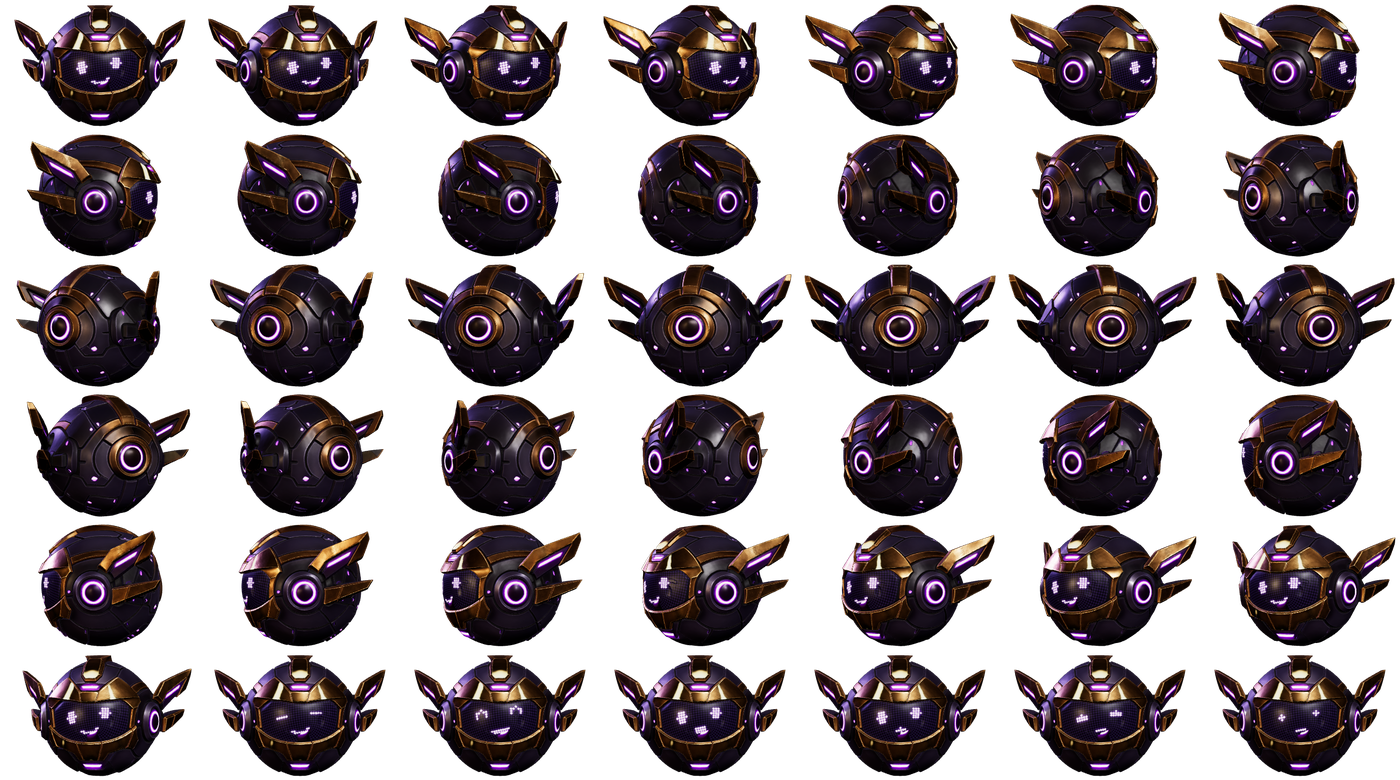
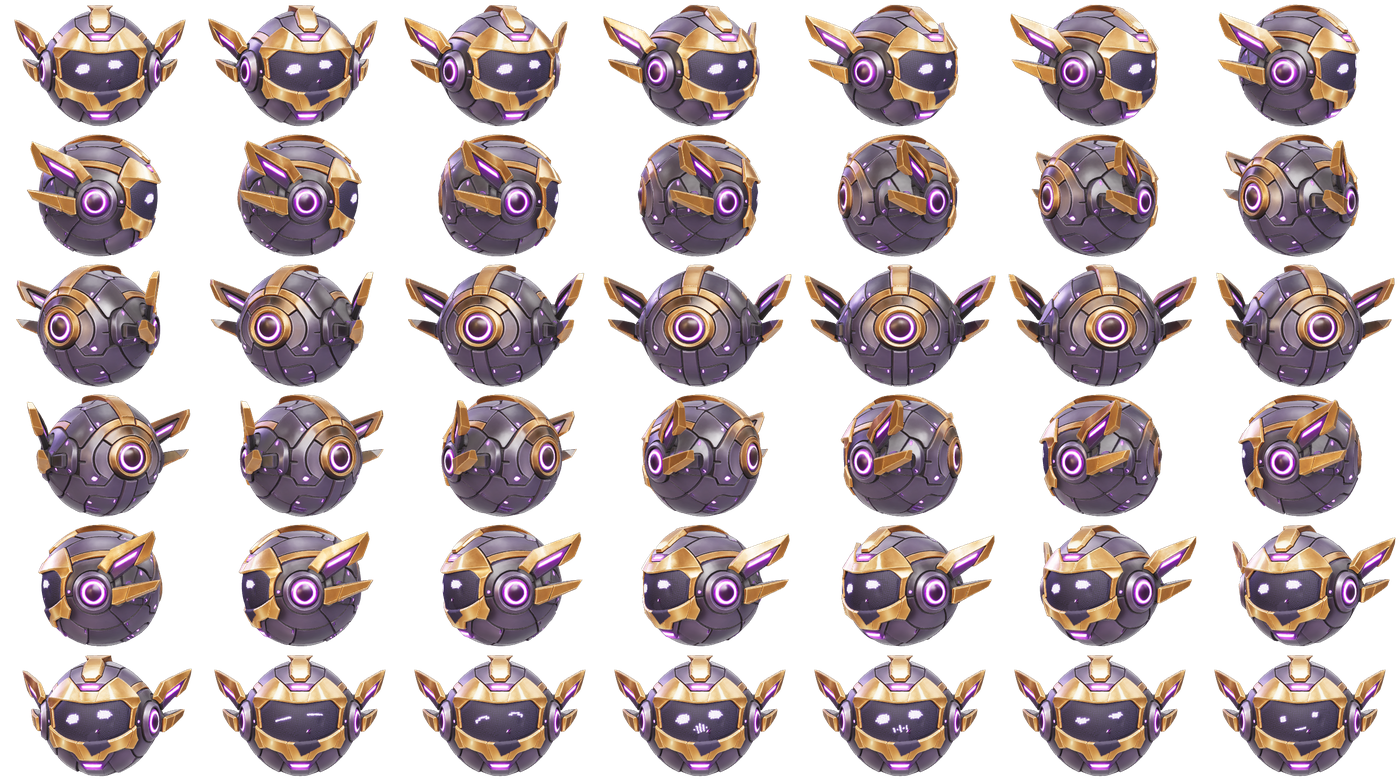
Companion 0.18.2: hellere 3D-Figur, neue LED-Gesichter, Menü im Sprechblasen-Stil
- Rendering mit Umgebungslicht und mehr Belichtung; Visier matt
- LED-Gesichter im Visier-Look (Balken-Augen, Equalizer beim Sprechen)
- Eingeformtes altes Lächeln im Visier geglättet (über UV-Nähte hinweg)
- TecMonMenu-Renderer für Figur- und Tray-Menü

Claude-Session: https://claude.ai/code/session_01VjzNBoQPioG3zk3xNWyA7y

diff --git a/scripts/figure-3d/index.html b/scripts/figure-3d/index.html
@@ -3,25 +3,44 @@
 <script type="module">
 import * as THREE from 'three';
 import {GLTFLoader} from 'three/addons/loaders/GLTFLoader.js';
+import {RoomEnvironment} from 'three/addons/environments/RoomEnvironment.js';
 const S=Number(new URLSearchParams(location.search).get('s')||512);
 const renderer=new THREE.WebGLRenderer({antialias:true,alpha:true,preserveDrawingBuffer:true,premultipliedAlpha:false});
-renderer.setSize(S,S);renderer.setClearColor(0x000000,0);renderer.outputColorSpace=THREE.SRGBColorSpace;renderer.toneMapping=THREE.ACESFilmicToneMapping;renderer.toneMappingExposure=1.1;
+renderer.setSize(S,S);renderer.setClearColor(0x000000,0);renderer.outputColorSpace=THREE.SRGBColorSpace;renderer.toneMapping=THREE.ACESFilmicToneMapping;renderer.toneMappingExposure=1.5;
 document.body.appendChild(renderer.domElement);
 const scene=new THREE.Scene();
+// Umgebungslicht für Metall und Gold, sonst wirkt die Figur auf dem Desktop zu dunkel.
+scene.environment=new THREE.PMREMGenerator(renderer).fromScene(new RoomEnvironment(),0.04).texture;scene.environmentIntensity=0.85;
 const cam=new THREE.PerspectiveCamera(22,1,0.1,50);
-scene.add(new THREE.HemisphereLight(0xd8cbff,0x1a1426,1.4));
-const key=new THREE.DirectionalLight(0xffffff,2.6);key.position.set(2,3,4);scene.add(key);
+scene.add(new THREE.HemisphereLight(0xe6dcff,0x3a3050,2.2));
+const key=new THREE.DirectionalLight(0xffffff,3.6);key.position.set(2,3,4);scene.add(key);
 const rim=new THREE.DirectionalLight(0xa78bfa,2.2);rim.position.set(-3,2,-3);scene.add(rim);
-const fill=new THREE.DirectionalLight(0xffe2a8,0.8);fill.position.set(-3,0.5,3);scene.add(fill);
+const fill=new THREE.DirectionalLight(0xffe2a8,1.6);fill.position.set(-3,0.5,3);scene.add(fill);
 const tl=new THREE.TextureLoader();
 const tex=(n,srgb)=>new Promise(r=>tl.load(n+'.png',t=>{t.flipY=false;if(srgb)t.colorSpace=THREE.SRGBColorSpace;t.anisotropy=8;r(t)}));
 window.ready=(async()=>{
-  const [d,e,n,m,ro]=await Promise.all([tex('diffuse',1),tex('emissive',1),tex('normal_flat'),tex('metallic'),tex('roughness')]);
+  const [d,e,n,m,ro]=await Promise.all([tex('diffuse',1),tex('emissive',1),tex('normal_flat'),tex('metallic_visor'),tex('roughness_visor')]);
   window.tex0=d;window.em0=e;
   const g=await new GLTFLoader().loadAsync('base.glb');
-  const mat=new THREE.MeshStandardMaterial({map:d,emissiveMap:e,emissive:0xffffff,emissiveIntensity:1.4,normalMap:n,metalnessMap:m,roughnessMap:ro,metalness:1,roughness:1,side:THREE.DoubleSide});
+  const mat=new THREE.MeshStandardMaterial({map:d,emissiveMap:e,emissive:0xffffff,emissiveIntensity:1.8,normalMap:n,metalnessMap:m,roughnessMap:ro,metalness:1,roughness:1,side:THREE.DoubleSide});
   window.mat=mat;
   g.scene.traverse(o=>{if(o.isMesh)o.material=mat});
+  /* Das Modell hat Augen und Mund als Relief im Visier. Das Visier glätten, damit nur das LED-Gesicht zu sehen ist. */
+  const mask=await new Promise(r=>{const i=new Image();i.onload=()=>{const c=document.createElement('canvas');c.width=i.width;c.height=i.height;const x=c.getContext('2d');x.drawImage(i,0,0);r({w:i.width,h:i.height,d:x.getImageData(0,0,i.width,i.height).data})};i.src='visor_mask.png'});
+  g.scene.traverse(o=>{if(!o.isMesh)return;const geo=o.geometry;
+    const pos=geo.attributes.position,uv=geo.attributes.uv,n=pos.count,p=pos.array;
+    const idx=geo.index?geo.index.array:Uint32Array.from({length:n},(_,i)=>i);
+    /* Gleiche Positionen über UV-Nähte hinweg zusammenfassen, damit auch Nahtkanten mitgeglättet werden. */
+    const key=new Map(),canon=new Int32Array(n);let m=0;
+    for(let i=0;i<n;i++){const k=Math.round(p[i*3]*1e5)+','+Math.round(p[i*3+1]*1e5)+','+Math.round(p[i*3+2]*1e5);let c=key.get(k);if(c===undefined){c=m++;key.set(k,c);}canon[i]=c;}
+    const cp=new Float64Array(m*3),weight=new Float32Array(m);
+    for(let i=0;i<n;i++){const c=canon[i];cp[c*3]=p[i*3];cp[c*3+1]=p[i*3+1];cp[c*3+2]=p[i*3+2];
+      const u=Math.min(mask.w-1,Math.max(0,Math.round(uv.getX(i)*mask.w))),v=Math.min(mask.h-1,Math.max(0,Math.round(uv.getY(i)*mask.h)));weight[c]=Math.max(weight[c],mask.d[(v*mask.w+u)*4]/255);}
+    const nb=Array.from({length:m},()=>[]);
+    for(let t=0;t<idx.length;t+=3){const a=canon[idx[t]],b=canon[idx[t+1]],c=canon[idx[t+2]];if(weight[a]+weight[b]+weight[c]===0)continue;nb[a].push(b,c);nb[b].push(a,c);nb[c].push(a,b);}
+    for(let it=0;it<60;it++){const q=cp.slice();for(let i=0;i<m;i++){if(!weight[i]||!nb[i].length)continue;let x=0,y=0,z=0;for(const j of nb[i]){x+=q[j*3];y+=q[j*3+1];z+=q[j*3+2];}const k=nb[i].length,w=weight[i]*0.6;cp[i*3]+=(x/k-q[i*3])*w;cp[i*3+1]+=(y/k-q[i*3+1])*w;cp[i*3+2]+=(z/k-q[i*3+2])*w;}}
+    for(let i=0;i<n;i++){const c=canon[i];p[i*3]=cp[c*3];p[i*3+1]=cp[c*3+1];p[i*3+2]=cp[c*3+2];}
+    pos.needsUpdate=true;geo.computeVertexNormals();});
   const pivot=new THREE.Group();pivot.add(g.scene);g.scene.position.set(0,-0.635,0);scene.add(pivot);window.pivot=pivot;
   cam.position.set(0,0.1,5.6);cam.lookAt(0,0,0);
   return true;

diff --git a/tools/cs2-companion/public/index.html b/tools/cs2-companion/public/index.html
@@ -1,7 +1,7 @@
 <!doctype html>
 <html lang="de"><head><meta charset="utf-8"><meta name="viewport" content="width=device-width,initial-scale=1"><meta name="tecmon-token" content="__TOKEN__"><title>TecMon · CS2 Companion</title><link rel="icon" href="/favicon.ico"><link rel="stylesheet" href="/style.css"><script src="/app.js" defer></script></head>
 <body class="holo"><aside><a class="brand" href="/"><img src="/logo.webp" alt="TecMon"><span>TECMON<small>LOCAL COMPANION</small></span></a><div class="local"><i></i> Läuft auf deinem PC<small>Demos und Videos bleiben lokal.</small></div><a href="https://tecmon.online" target="_blank" rel="noreferrer">↗ TecMon öffnen</a><a href="#" id="folder-open-side">↗ Videos-Ordner öffnen</a></aside>
-<main><header><span class="eyebrow">DEIN MATCH. DEINE MOMENTE.</span><div class="header-actions"><span class="version">WINDOWS · PREVIEW 0.18.1</span><button id="advanced-toggle" type="button" class="subtle" aria-expanded="false" aria-controls="advanced-panel">Erweitert</button></div></header>
+<main><header><span class="eyebrow">DEIN MATCH. DEINE MOMENTE.</span><div class="header-actions"><span class="version">WINDOWS · PREVIEW 0.18.2</span><button id="advanced-toggle" type="button" class="subtle" aria-expanded="false" aria-controls="advanced-panel">Erweitert</button></div></header>
 <div id="update-banner" class="update-banner" role="status" hidden><span><b id="update-banner-title">Update verfügbar</b><small id="update-banner-note">Installiert nur Companion-Dateien und startet neu. Demos, Videos und Einstellungen bleiben erhalten.</small></span><button id="update-banner-install" type="button">Jetzt installieren</button></div>
 <section class="minimal-hero" aria-labelledby="minimal-title"><img src="/desktop-avatar.png" alt="" width="88" height="88"><div><span class="eyebrow gold">// DEIN LOKALER COMPANION</span><h1 id="minimal-title">Bereit für deine Highlights.</h1><p>Wähle auf TecMon deine Matches und Spieler. Dieser PC lädt die Demos und erstellt deine Videos automatisch.</p><a class="button website-open" href="https://tecmon.online" target="_blank" rel="noreferrer">TecMon im Browser öffnen ↗</a></div></section>
 <section class="card connection-summary" aria-labelledby="connection-heading"><div class="status-orb" aria-hidden="true"></div><div><span class="eyebrow">BROWSER-VERBINDUNG</span><h2 id="connection-heading">Verbindung wird geprüft …</h2><p id="connection-note">Companion geöffnet lassen. Nach dem Verbinden steuerst du Download und Aufnahme auf der Webseite.</p><div id="bridge-connections" aria-live="polite"></div></div></section>

diff --git a/tools/cs2-companion/windows/TecMon.cs b/tools/cs2-companion/windows/TecMon.cs
@@ -140,12 +140,12 @@ static class TecMon {
     if(launch) {Root=target; Application.Run(new SplashWindow());}
   }
   public static void WriteUpdateResult(string target,string status,string message) {
-    try {File.WriteAllText(Path.Combine(target,"update-result.json"),Json.Serialize(new { status=status,message=message,version="0.18.1",time=DateTime.UtcNow.ToString("o") }),new UTF8Encoding(false));} catch {}
+    try {File.WriteAllText(Path.Combine(target,"update-result.json"),Json.Serialize(new { status=status,message=message,version="0.18.2",time=DateTime.UtcNow.ToString("o") }),new UTF8Encoding(false));} catch {}
   }
   public static void UpdateRegistration(string target) {
     using(var key=Registry.CurrentUser.OpenSubKey(@"Software\Microsoft\Windows\CurrentVersion\Uninstall\TecMonCompanion",true)) {
       if(key==null || !String.Equals(Convert.ToString(key.GetValue("InstallLocation","")),target,StringComparison.OrdinalIgnoreCase))return;
-      key.SetValue("DisplayVersion","0.18.1");key.SetValue("DisplayIcon",Path.Combine(target,"TecMon Companion.exe"));
+      key.SetValue("DisplayVersion","0.18.2");key.SetValue("DisplayIcon",Path.Combine(target,"TecMon Companion.exe"));
     }
     foreach(var file in new[]{Path.Combine(Environment.GetFolderPath(Environment.SpecialFolder.DesktopDirectory),"TecMon Companion.lnk"),Path.Combine(Environment.GetFolderPath(Environment.SpecialFolder.Programs),"TecMon","TecMon Companion.lnk")})
       if(File.Exists(file))Shortcut(file,Path.Combine(target,"TecMon Companion.exe"));
@@ -160,7 +160,7 @@ static class TecMon {
     var programs = Path.Combine(Environment.GetFolderPath(Environment.SpecialFolder.Programs), "TecMon"); Directory.CreateDirectory(programs);
     Shortcut(Path.Combine(programs, "TecMon Companion.lnk"), app);
     using(var key = Registry.CurrentUser.CreateSubKey(@"Software\Microsoft\Windows\CurrentVersion\Uninstall\TecMonCompanion")) {
-      key.SetValue("DisplayName", "TecMon Companion"); key.SetValue("DisplayVersion", "0.18.1"); key.SetValue("Publisher", "TecMon");
+      key.SetValue("DisplayName", "TecMon Companion"); key.SetValue("DisplayVersion", "0.18.2"); key.SetValue("Publisher", "TecMon");
       key.SetValue("InstallLocation", target); key.SetValue("DisplayIcon", app); key.SetValue("UninstallString", Q(app) + " --uninstall"); key.SetValue("NoModify", 1); key.SetValue("NoRepair", 1);
     }
   }
@@ -268,7 +268,7 @@ static class TecMon {
       if(args.Length > 0 && args[0] == "--apply-update-cli") {
         try {ApplyUpdate(args[1],"",false);return 0;} catch(Exception error) {WriteUpdateResult(args[1],"error",error.Message);Console.Error.WriteLine(error.Message);return 1;}
       }
-      if(args.Length>1 && args[0]=="--desktop-preview-3d") {using(var pet=new DesktopPet(true)){if(!pet.HasModel)throw new Exception("3D-Figur fehlt");int n=0;foreach(var spec in new[]{"0,-1","30,-1","90,-1","150,-1","180,-1","0,36","0,37","0,38","0,39","0,41"}){var parts=spec.Split(',');using(var frame=pet.Preview(double.Parse(parts[0]),int.Parse(parts[1])))frame.Save(Path.Combine(args[1],"pet-"+(n++)+".png"),System.Drawing.Imaging.ImageFormat.Png);}}using(var bubble=new TipBubble())using(var image=bubble.Preview("Kauf-Check","Volle Ausrüstung möglich: Rifle, Kevlar + Helm und zwei Granaten."))image.Save(Path.Combine(args[1],"bubble.png"),System.Drawing.Imaging.ImageFormat.Png);return 0;}
+      if(args.Length>1 && args[0]=="--desktop-preview-3d") {using(var pet=new DesktopPet(true)){if(!pet.HasModel)throw new Exception("3D-Figur fehlt");int n=0;foreach(var spec in new[]{"0,-1","30,-1","90,-1","150,-1","180,-1","0,36","0,37","0,38","0,39","0,41"}){var parts=spec.Split(',');using(var frame=pet.Preview(double.Parse(parts[0]),int.Parse(parts[1])))frame.Save(Path.Combine(args[1],"pet-"+(n++)+".png"),System.Drawing.Imaging.ImageFormat.Png);}}using(var bubble=new TipBubble())using(var image=bubble.Preview("Kauf-Check","Volle Ausrüstung möglich: Rifle, Kevlar + Helm und zwei Granaten."))image.Save(Path.Combine(args[1],"bubble.png"),System.Drawing.Imaging.ImageFormat.Png);using(var pet=new DesktopPet(true)){var menu=pet.ContextMenuStrip;menu.Show(new Point(0,0));if(menu.Items.Count>2)((ToolStripMenuItem)menu.Items[2]).Select();using(var shot=new Bitmap(menu.Width,menu.Height)){menu.DrawToBitmap(shot,new Rectangle(0,0,menu.Width,menu.Height));shot.Save(Path.Combine(args[1],"menu.png"),System.Drawing.Imaging.ImageFormat.Png);}menu.Close();}return 0;}
       if(args.Length>1 && args[0]=="--desktop-preview") {using(var pet=new DesktopPet(true))using(var frame=pet.Frame())frame.Save(args[1],System.Drawing.Imaging.ImageFormat.Png);return 0;}
       if(args.Length>0 && args[0]=="--desktop-self-test") {var result=DesktopPet.Fit(new Point(5000,-5000),new Rectangle(-1920,0,1920,1080),new Size(144,164));if(result.X!=-144||result.Y!=0)throw new Exception("Desktop bounds failed");return 0;}
       if(args.Length > 1 && args[0] == "--splash-preview") {using(var form=new SplashWindow(true)) using(var bitmap=new Bitmap(form.ClientSize.Width,form.ClientSize.Height)) {using(var graphics=Graphics.FromImage(bitmap))graphics.Clear(form.BackColor);foreach(Control control in form.Controls)control.DrawToBitmap(bitmap,control.Bounds);bitmap.Save(args[1],System.Drawing.Imaging.ImageFormat.Png);}return 0;}
@@ -288,7 +288,7 @@ static class TecMon {
         string target=Path.Combine(Environment.GetFolderPath(Environment.SpecialFolder.LocalApplicationData),@"Programs\TecMon Companion");
         using(var key=Registry.CurrentUser.OpenSubKey(@"Software\Microsoft\Windows\CurrentVersion\Uninstall\TecMonCompanion")) if(key!=null) target=Convert.ToString(key.GetValue("InstallLocation",target));
         if(!File.Exists(Path.Combine(target,"installation.json"))) using(var dialog=new FolderBrowserDialog { Description="Bestehenden TecMon-Programmordner wählen",SelectedPath=target }) {if(dialog.ShowDialog()!=DialogResult.OK)return 0;target=dialog.SelectedPath;}
-        if(MessageBox.Show("TecMon Companion auf 0.18.1 aktualisieren?\n\nVorher Companion und CS Demo Manager schließen. Nur Programmdateien werden ersetzt. PostgreSQL, Tools, Demos, Videos und Passwörter bleiben erhalten.","TecMon Update",MessageBoxButtons.YesNo,MessageBoxIcon.Question)==DialogResult.Yes) ApplyUpdate(target,"");
+        if(MessageBox.Show("TecMon Companion auf 0.18.2 aktualisieren?\n\nVorher Companion und CS Demo Manager schließen. Nur Programmdateien werden ersetzt. PostgreSQL, Tools, Demos, Videos und Passwörter bleiben erhalten.","TecMon Update",MessageBoxButtons.YesNo,MessageBoxIcon.Question)==DialogResult.Yes) ApplyUpdate(target,"");
         return 0;
       }
       if(Assembly.GetExecutingAssembly().GetManifestResourceNames().Contains("TecMonPayload")) { Application.Run(new SetupWindow()); return 0; }
@@ -460,6 +460,44 @@ class DesktopPanel : Form {
 }
 
 // Kurzer CS2-Rundentipp neben der Figur. Wird nie aktiviert, damit CS2 den Fokus behält.
+/* Rechtsklick-Menü im Stil der Rundentipp-Sprechblase: dunkle Fläche, goldener Rahmen, lila Auswahl. */
+class TecMonMenu : ToolStripProfessionalRenderer {
+  static readonly Color Top=Color.FromArgb(27,22,38),Bottom=Color.FromArgb(11,10,17),Violet=Color.FromArgb(167,139,250),Text=Color.FromArgb(232,230,240),Muted=Color.FromArgb(150,146,168);
+  public TecMonMenu():base(new Colors()){RoundedEdges=false;}
+  class Colors : ProfessionalColorTable {
+    public override Color ToolStripDropDownBackground {get{return Bottom;}}
+    public override Color ImageMarginGradientBegin {get{return Top;}}
+    public override Color ImageMarginGradientMiddle {get{return Top;}}
+    public override Color ImageMarginGradientEnd {get{return Top;}}
+    public override Color MenuBorder {get{return TecMon.Gold;}}
+    public override Color MenuItemBorder {get{return Color.FromArgb(120,Violet);}}
+    public override Color MenuItemSelected {get{return Color.FromArgb(60,Violet);}}
+    public override Color SeparatorDark {get{return Color.FromArgb(90,TecMon.Gold);}}
+    public override Color SeparatorLight {get{return Color.Transparent;}}
+  }
+  public static void Apply(ToolStripDropDown menu){menu.Renderer=new TecMonMenu();menu.Font=new Font("Segoe UI",10f);menu.Padding=new Padding(4,8,4,8);menu.ForeColor=Text;}
+  protected override void OnRenderToolStripBackground(ToolStripRenderEventArgs e){using(var fill=new System.Drawing.Drawing2D.LinearGradientBrush(e.AffectedBounds,Top,Bottom,90f))e.Graphics.FillRectangle(fill,e.AffectedBounds);}
+  protected override void OnRenderImageMargin(ToolStripRenderEventArgs e){}
+  protected override void OnRenderToolStripBorder(ToolStripRenderEventArgs e){
+    var r=new Rectangle(0,0,e.ToolStrip.Width-1,e.ToolStrip.Height-1);
+    using(var glow=new Pen(Color.FromArgb(70,Violet),3))e.Graphics.DrawRectangle(glow,new Rectangle(2,2,r.Width-4,r.Height-4));
+    using(var gold=new Pen(TecMon.Gold,1.4f))e.Graphics.DrawRectangle(gold,r);
+  }
+  protected override void OnRenderMenuItemBackground(ToolStripItemRenderEventArgs e){
+    if(!e.Item.Selected||!e.Item.Enabled)return;var r=new Rectangle(3,1,e.Item.Width-6,e.Item.Height-2);
+    using(var fill=new SolidBrush(Color.FromArgb(55,Violet)))e.Graphics.FillRectangle(fill,r);
+    using(var bar=new SolidBrush(Violet))e.Graphics.FillRectangle(bar,r.Left,r.Top+3,3,r.Height-6);
+  }
+  protected override void OnRenderItemText(ToolStripItemTextRenderEventArgs e){e.TextColor=!e.Item.Enabled?Muted:e.Item.Selected?Color.White:Text;base.OnRenderItemText(e);}
+  protected override void OnRenderArrow(ToolStripArrowRenderEventArgs e){e.ArrowColor=TecMon.Gold;base.OnRenderArrow(e);}
+  protected override void OnRenderSeparator(ToolStripSeparatorRenderEventArgs e){int y=e.Item.Height/2;using(var line=new Pen(Color.FromArgb(70,TecMon.Gold)))e.Graphics.DrawLine(line,12,y,e.Item.Width-12,y);}
+  protected override void OnRenderItemCheck(ToolStripItemImageRenderEventArgs e){
+    var r=e.ImageRectangle;e.Graphics.SmoothingMode=System.Drawing.Drawing2D.SmoothingMode.AntiAlias;
+    using(var glow=new SolidBrush(Color.FromArgb(70,Violet)))e.Graphics.FillEllipse(glow,r.Left+r.Width/2-7,r.Top+r.Height/2-7,14,14);
+    using(var dot=new SolidBrush(Violet))e.Graphics.FillEllipse(dot,r.Left+r.Width/2-4,r.Top+r.Height/2-4,8,8);
+  }
+}
+
 /* Fenster mit echter Transparenz je Pixel (freigestellt wie ein PNG): kein dunkler Rand, keine harten Ecken. */
 static class Layered {
   [System.Runtime.InteropServices.DllImport("user32.dll")] static extern IntPtr GetDC(IntPtr window);
@@ -659,6 +697,8 @@ class DesktopPet : Form {
     var webview=new ToolStripMenuItem("WebView2 von Microsoft installieren",null,(s,e)=>DesktopPanel.OpenExternal("https://developer.microsoft.com/microsoft-edge/webview2/"));more.DropDownItems.Add(webview);menu.Items.Add(more);
     menu.Opening+=(s,e)=>webview.Visible=!DesktopPanel.WebViewInstalled();
     menu.Items.Add(new ToolStripSeparator());menu.Items.Add("Companion beenden",null,async(s,e)=>await Quit());ContextMenuStrip=menu;
+    /* Gleicher Look für alle Untermenüs. */
+    TecMonMenu.Apply(menu);foreach(ToolStripItem item in menu.Items){var sub=item as ToolStripMenuItem;if(sub!=null&&sub.HasDropDownItems){TecMonMenu.Apply(sub.DropDown);}}tipsItem.DropDownOpening+=(s,e)=>TecMonMenu.Apply(tipsItem.DropDown);
     if(!preview){tray=new NotifyIcon{Icon=Icon.ExtractAssociatedIcon(Application.ExecutablePath),Text="TecMon Companion · Klick für Einstellungen",Visible=true,ContextMenuStrip=menu};tray.MouseClick+=(s,e)=>{if(e.Button==MouseButtons.Left){Show();Toggle();}};}
     MouseEnter+=(s,e)=>hover=true;MouseLeave+=(s,e)=>hover=false;
     MouseDown+=(s,e)=>{if(e.Button!=MouseButtons.Left)return;dragging=true;moved=false;dragStart=Cursor.Position;start=Location;Capture=true;};

diff --git a/scripts/figure-3d/faces.py b/scripts/figure-3d/faces.py
@@ -1,39 +1,43 @@
+# LED-Gesichter als Punktmatrix: schlichter Visier-Look (Balken-Augen, Equalizer-Mund).
 import os, sys, math
-from PIL import Image, ImageDraw, ImageFilter, ImageChops
-W,H=530,310; P=15; R=5.2
-EX,EY,MY=105,118,223
-def ell(dx,dy,rx,ry): return (dx/rx)**2+(dy/ry)**2<=1
-def ring(dx,dy,rx,ry,t): return ell(dx,dy,rx,ry) and not ell(dx,dy,rx-t,ry-t)
-def eye(kind,dx,dy):
-    if kind=='open': return ell(dx,dy,32,42)
-    if kind=='blink': return abs(dy+2)<8 and abs(dx)<38
-    if kind=='happy': return dy<6 and ring(dx,dy+8,38,38,15)
-    if kind=='focus': return ell(dx,dy-6,36,22)
-    if kind=='dot': return ell(dx,dy,16,16)
+from PIL import Image, ImageDraw, ImageFilter
+W, H = 530, 310
+P, R = 11, 3.9          # Raster und LED-Radius
+EX, EY, MY = 100, 128, 216
+def caps(dx, dy, w, h):  # Kapsel (abgerundeter Balken)
+    ax = max(0, abs(dx) - (w - h)); return (ax / h) ** 2 + (dy / h) ** 2 <= 1
+def eye(kind, dx, dy, side):
+    if kind == 'open':  return caps(dx, dy, 43, 27) and dy >= -27 + side * dx * 0.18
+    if kind == 'blink': return caps(dx, dy, 46, 5)
+    if kind == 'happy': return abs(dx) <= 44 and abs(dy - (0.011 * dx * dx - 12)) <= 9
+    if kind == 'focus': return caps(dx, dy, 43, 22) and dy >= -6 + side * dx * 0.28
+    if kind == 'scan':  return abs(dx) <= 12 and abs(dy) <= 12
     return False
-def mouth(kind,dx,dy):
-    if kind=='smile': return dy>-12 and ring(dx,dy+14,64,44,20)
-    if kind=='grin': return dy>-14 and ell(dx,dy+8,64,38)
-    if kind=='talkA': return ell(dx,dy,38,28)
-    if kind=='talkB': return ell(dx,dy,34,15)
-    if kind=='flat': return abs(dy)<8 and abs(dx)<44
+LEVELS = {'talkA': [10, 22, 34, 22, 10], 'talkB': [18, 10, 24, 10, 18]}
+def mouth(kind, dx, dy):
+    if kind in LEVELS:
+        i = round(dx / 22) + 2
+        if 0 <= i < 5 and abs(dx - (i - 2) * 22) <= 6: return abs(dy) <= LEVELS[kind][i]
+        return False
+    if kind == 'line': return abs(dy) <= 3 and abs(dx) <= 34
     return False
-FACES={'idle':('open','smile'),'blink':('blink','smile'),'happy':('happy','grin'),'talkA':('open','talkA'),'talkB':('open','talkB'),'focus':('focus','flat'),'busy':('dot','flat')}
+FACES = {'idle': ('open', ''), 'blink': ('blink', ''), 'happy': ('happy', ''), 'talkA': ('open', 'talkA'),
+         'talkB': ('open', 'talkB'), 'focus': ('focus', ''), 'busy': ('scan', 'line')}
 def face(name):
-    e,m=FACES[name]
-    lit=Image.new('L',(W,H),0); dim=Image.new('L',(W,H),0)
-    dl,dd=ImageDraw.Draw(lit),ImageDraw.Draw(dim)
-    for gy in range(13,H,P):
-        for gx in range(10,W,P):
-            on=eye(e,gx-(W/2-EX),gy-EY) or eye(e,gx-(W/2+EX),gy-EY) or mouth(m,gx-W/2,gy-MY)
-            box=(gx-R,gy-R,gx+R,gy+R)
-            (dl if on else dd).ellipse(box,fill=255)
-    glow=lit.filter(ImageFilter.GaussianBlur(9))
-    rgba=Image.new('RGBA',(W,H),(0,0,0,0))
-    def lay(mask,col,alpha):
-        layer=Image.new('RGBA',(W,H),col+(0,)); layer.putalpha(mask.point(lambda v:int(v*alpha))); rgba.alpha_composite(layer)
-    lay(dim,(120,70,170),0.22); lay(glow,(170,70,255),0.9); lay(lit,(236,200,255),1.0)
+    e, m = FACES[name]
+    lit = Image.new('L', (W, H), 0); dim = Image.new('L', (W, H), 0)
+    dl, dd = ImageDraw.Draw(lit), ImageDraw.Draw(dim)
+    x0 = (W // 2) % P; y0 = EY % P
+    for gy in range(y0, H, P):
+        for gx in range(x0, W, P):
+            on = eye(e, gx - (W / 2 - EX), gy - EY, 1) or eye(e, gx - (W / 2 + EX), gy - EY, -1) or (m and mouth(m, gx - W / 2, gy - MY))
+            (dl if on else dd).ellipse((gx - R, gy - R, gx + R, gy + R), fill=255)
+    glow = lit.filter(ImageFilter.GaussianBlur(10)); halo = lit.filter(ImageFilter.GaussianBlur(3))
+    rgba = Image.new('RGBA', (W, H), (0, 0, 0, 0))
+    def lay(mask, col, alpha):
+        layer = Image.new('RGBA', (W, H), col + (0,)); layer.putalpha(mask.point(lambda v: int(v * alpha))); rgba.alpha_composite(layer)
+    lay(dim, (90, 60, 140), 0.16); lay(glow, (150, 90, 255), 1.0); lay(halo, (200, 160, 255), 0.8); lay(lit, (246, 236, 255), 1.0)
     return rgba
-if __name__=='__main__':
+if __name__ == '__main__':
     for n in FACES:
-        f=face(n); bg=Image.new('RGBA',(W,H),(16,9,24,255)); bg.alpha_composite(f); bg.save(os.path.join(sys.argv[1], n + '.png'))
+        f = face(n); bg = Image.new('RGBA', (W, H), (14, 8, 22, 255)); bg.alpha_composite(f); bg.save(os.path.join(sys.argv[1], n + '.png'))

diff --git a/scripts/figure-3d/bake.py b/scripts/figure-3d/bake.py
@@ -9,19 +9,30 @@ E=Image.open(SRC+'/texture_emissive.png').convert('RGB')
 X0,X1,Y0,Y1=670,1010,905,1465
 # Visier = dunkle/lila Fläche im Gesichtsbereich, nicht Gold.
 m=Image.new('L',D.size,0); px=D.load(); mp=m.load()
-for x in range(X0,X1):
-    for y in range(Y0,Y1):
+# Zweite UV-Insel: unterer Visierrand mit einem Rest des alten Munds.
+# Dritte Insel: unterer Visierbogen, im Atlas golden eingefärbt, gehört ganz zum Visier.
+BOXES=[(X0,X1,Y0,Y1,False),(1120,1240,1590,1720,False),(1425,1560,0,110,True)]
+for (bx0,bx1,by0,by1,whole) in BOXES:
+  for x in range(bx0,bx1):
+    for y in range(by0,by1):
         r,g,b=px[x,y]
         gold = r>110 and r-b>45 and g>70
-        if not gold: mp[x,y]=255
-m=m.filter(ImageFilter.MinFilter(9)).filter(ImageFilter.MaxFilter(3)).filter(ImageFilter.GaussianBlur(3))
+        if whole or not gold: mp[x,y]=255
+main=Image.new('L',D.size,0); main.paste(m.crop((X0,Y0,X1,Y1)),(X0,Y0))
+rest=ImageChops.subtract(m,main).filter(ImageFilter.MaxFilter(7)).filter(ImageFilter.GaussianBlur(2))
+# Nur die Hauptfläche einziehen, damit das LED-Gesicht nicht an den Goldrand stößt.
+m=ImageChops.lighter(main.filter(ImageFilter.MinFilter(9)).filter(ImageFilter.MaxFilter(3)).filter(ImageFilter.GaussianBlur(3)),rest)
 
 def bake(name):
     f=faces.face(name).rotate(-90,expand=True)   # Gesicht oben -> +x im Atlas
     base=Image.new('RGBA',f.size,(14,8,22,255)); base.alpha_composite(f)
     d=D.copy(); e=E.copy()
-    vd=Image.new('RGB',D.size,(14,8,22)); vd.paste(base.convert('RGB'),(1005-f.size[0]+0,1185-f.size[1]//2))
-    ve=Image.new('RGB',D.size,(0,0,0)); fe=Image.new('RGBA',f.size,(0,0,0,255)); fe.alpha_composite(f); ve.paste(fe.convert('RGB'),(1005-f.size[0],1185-f.size[1]//2))
+    from PIL import ImageStat
+    # Visierreste außerhalb des Gesichts in der mittleren Visierfarbe (mit LED-Raster gemittelt) füllen.
+    fe=Image.new('RGBA',f.size,(0,0,0,255)); fe.alpha_composite(f)
+    avg_d=tuple(int(v) for v in ImageStat.Stat(base.convert('RGB')).mean); avg_e=tuple(int(v) for v in ImageStat.Stat(fe.convert('RGB')).mean)
+    vd=Image.new('RGB',D.size,avg_d); vd.paste(base.convert('RGB'),(1005-f.size[0]+0,1185-f.size[1]//2))
+    ve=Image.new('RGB',D.size,avg_e); ve.paste(fe.convert('RGB'),(1005-f.size[0],1185-f.size[1]//2))
     d.paste(vd,(0,0),m); e.paste(ve,(0,0),m)
     return d,e
 if __name__=='__main__':
@@ -29,3 +40,8 @@ if __name__=='__main__':
         d,e=bake(n); d.save(f'{OUT}/diffuse_{n}.png'); e.save(f'{OUT}/emissive_{n}.png')
     N=Image.open(SRC+'/texture_normal.png').convert('RGB')
     N.paste(Image.new('RGB',N.size,(128,128,255)),(0,0),m); N.save(OUT+'/normal_flat.png')
+    # Visier matt und nicht metallisch, sonst spiegelt sich das Umgebungslicht wie ein zweiter Mund.
+    for name, value in (('roughness', 200), ('metallic', 0)):
+        T = Image.open(SRC + f'/texture_{name}.png').convert('RGB')
+        T.paste(Image.new('RGB', T.size, (value, value, value)), (0, 0), m); T.save(OUT + f'/{name}_visor.png')
+    m.save(OUT + '/visor_mask.png')

diff --git a/README.md b/README.md
@@ -66,6 +66,16 @@ Drittanbieter behalten ihre eigenen Lizenzen, einschließlich MIT, PostgreSQL Li
 
 Neueste Version zuerst.
 
+### Neu in 0.18.2: Hellere Figur, neue LED-Gesichter, Menü im TecMon-Stil
+
+- **Heller:** Die 3D-Figur ist mit Umgebungslicht neu gerendert. Gold und
+  Metall wirken auf dunklen und hellen Hintergründen deutlich heller.
+- **Neue LED-Gesichter:** Statt Smiley jetzt ein schlichter Visier-Look:
+  Balken-Augen, Blinzeln als Linie, Lächeln als Bögen, beim Sprechen ein
+  Equalizer statt Mund. Das im Modell eingeformte alte Lächeln ist geglättet.
+- **Menü:** Das Rechtsklick-Menü der Figur (und das Tray-Menü) hat den Look der
+  Rundentipp-Sprechblase: dunkle Fläche, goldener Rahmen, lila Auswahl.
+
 ### Neu in 0.18.1: Aufnahme nach dem CS2-Update repariert
 
 Seit dem CS2-Update vom 11.11.2026 stürzte CS2 bei jeder Aufnahme etwa 14
